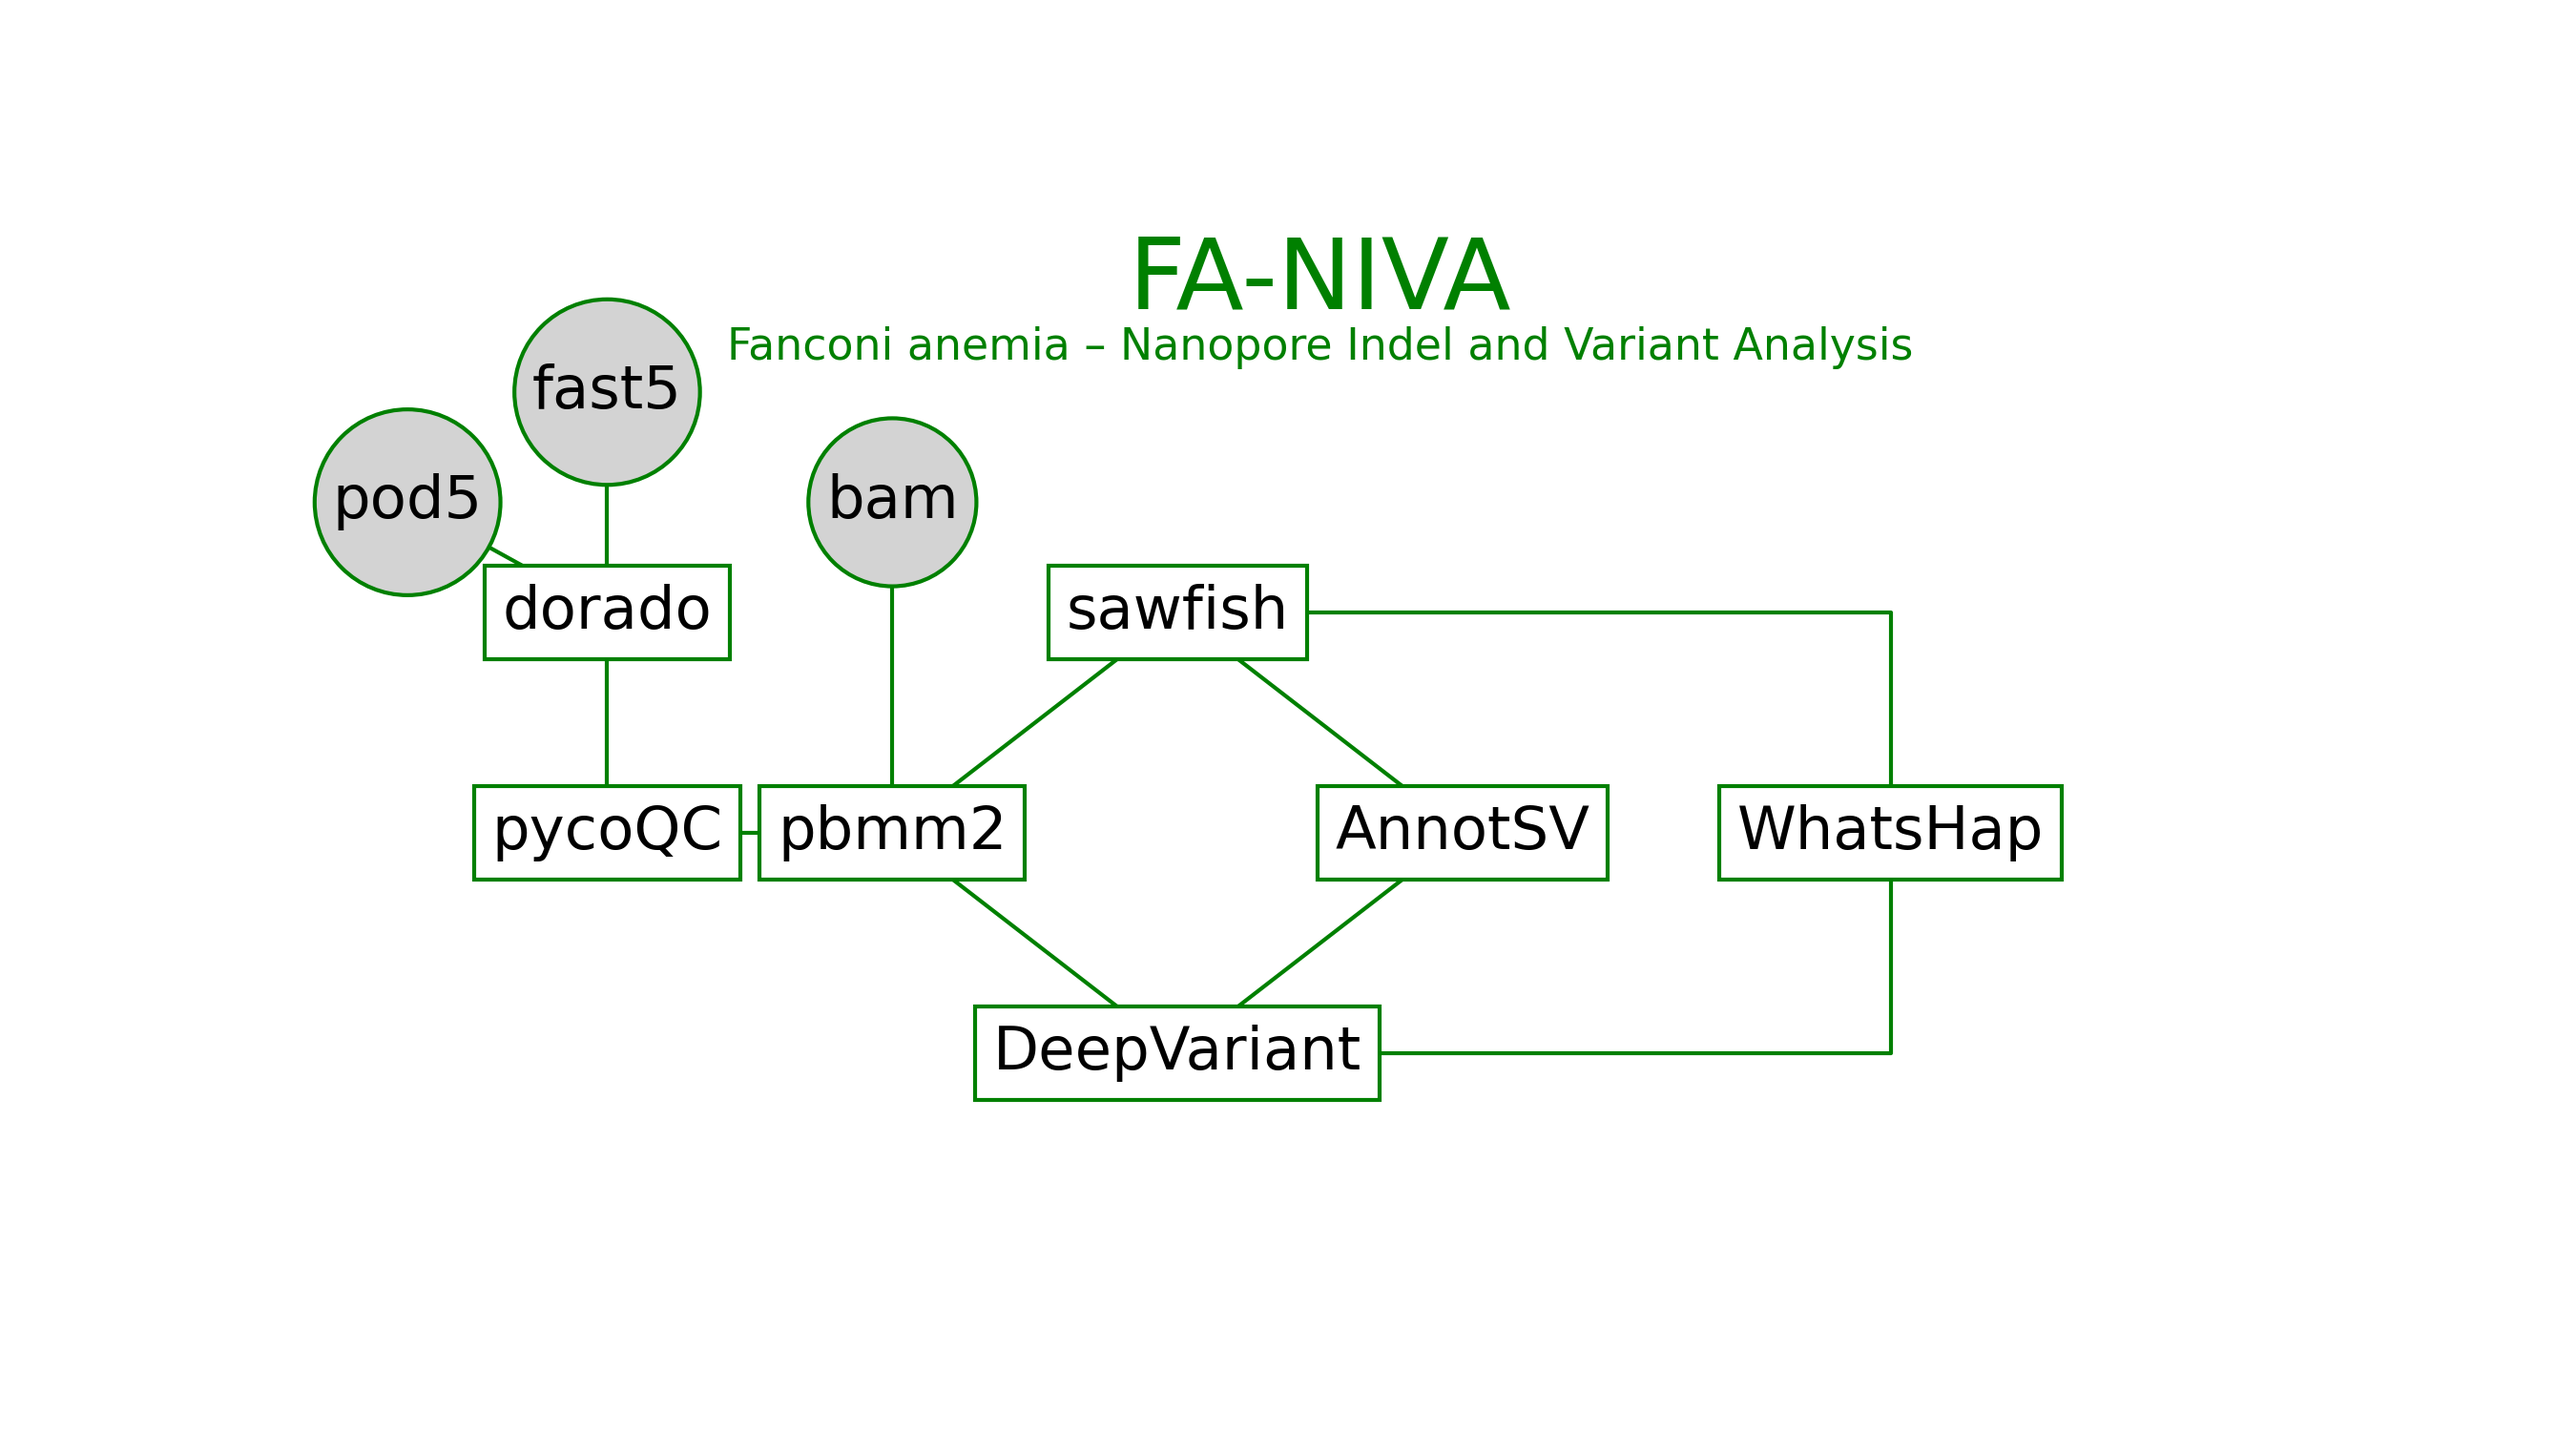
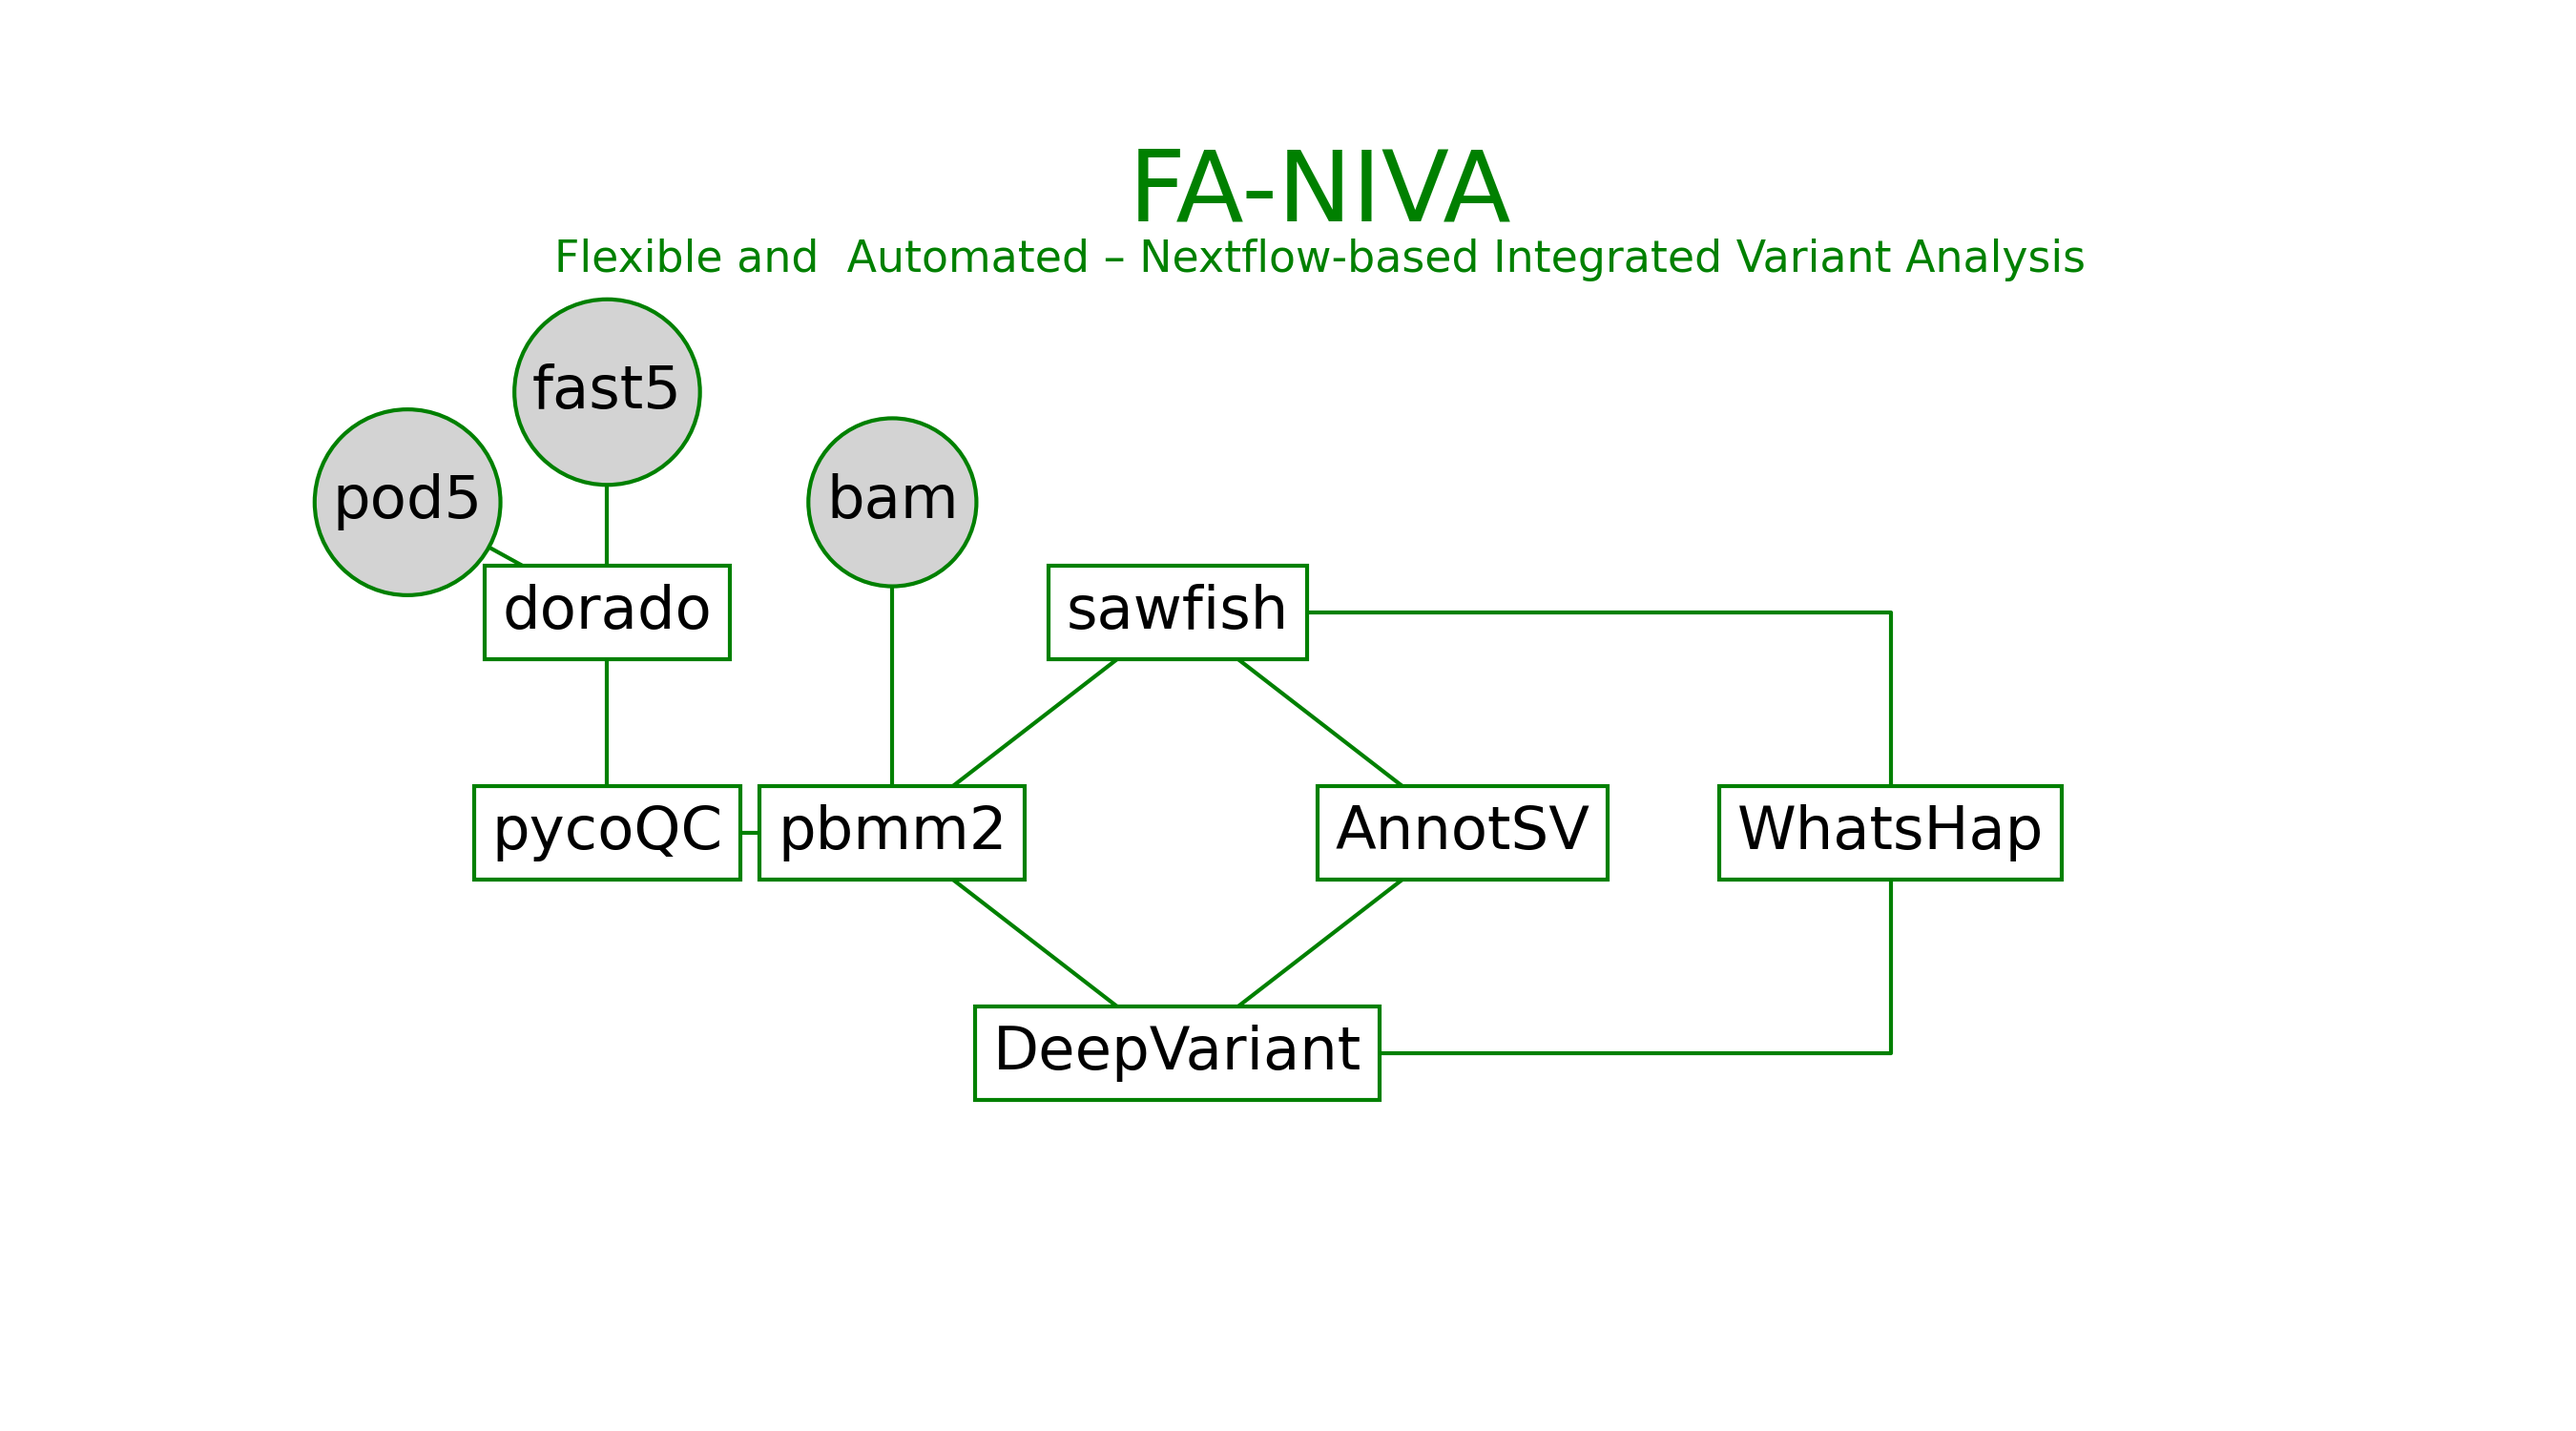
update name

Changed region(s): [[0.2178, 0.092, 0.8089, 0.276], [0.28, 0.2147, 0.4044, 0.2453]]

diff --git a/docs/pipeline_overview_fig.py b/docs/pipeline_overview_fig.py
@@ -76,8 +76,8 @@ for label, (x, y) in nodes.items():
         )
 
 # Add "FA-NIVA" text at coordinates (3, 5)
-ax.text(3.5, 4.5, "FA-NIVA", fontsize=25, ha="center", va="center", color="green", zorder=4)
-ax.text(3.5, 4.2, "Fanconi anemia – Nanopore Indel and Variant Analysis", fontsize=11, ha="center", va="center", color="green", zorder=4)
+ax.text(3.5, 4.9, "FA-NIVA", fontsize=25, ha="center", va="center", color="green", zorder=4)
+ax.text(3.5, 4.6, "Flexible and  Automated – Nextflow-based Integrated Variant Analysis", fontsize=11, ha="center", va="center", color="green", zorder=4)
 
 # Customize plot appearance
 ax.set_xlim(0, 7)

diff --git a/README.md b/README.md
@@ -1,6 +1,6 @@
-# FA-NIVA: Fanconi Anemia Nanopore Analysis
+# FA-NIVA: Flexible and  Automated – Nextflow-based Integrated Variant Analysis
 
-A comprehensive Nextflow pipeline for analyzing long-read Nanopore sequencing data for Fanconi Anemia diagnosis. This pipeline automates basecalling, alignment, variant calling, and structural variant annotation.
+A Nextflow framework for integrated variant analysis of Nanopore-based long-read sequencing data. This pipeline automates basecalling, alignment, variant calling, and structural variant annotation.
 
 ![Description](https://github.com/UKWgenommedizin/FA-NIVA/blob/main/docs/workflow_complete_graph.png)
 
